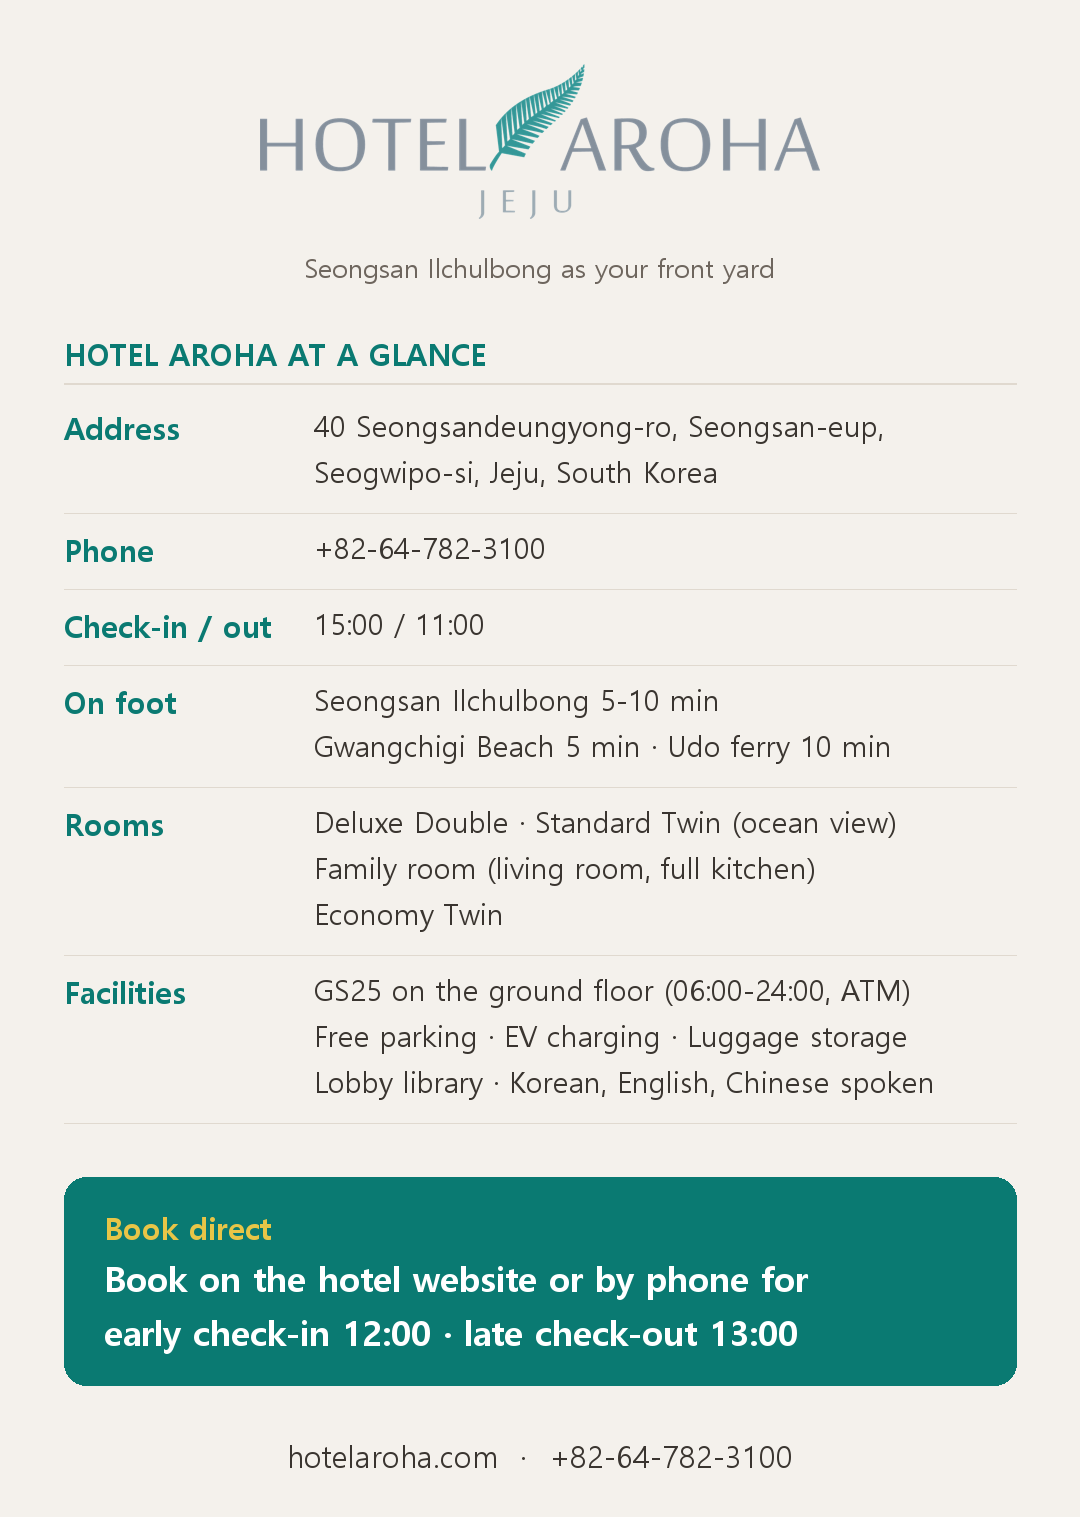
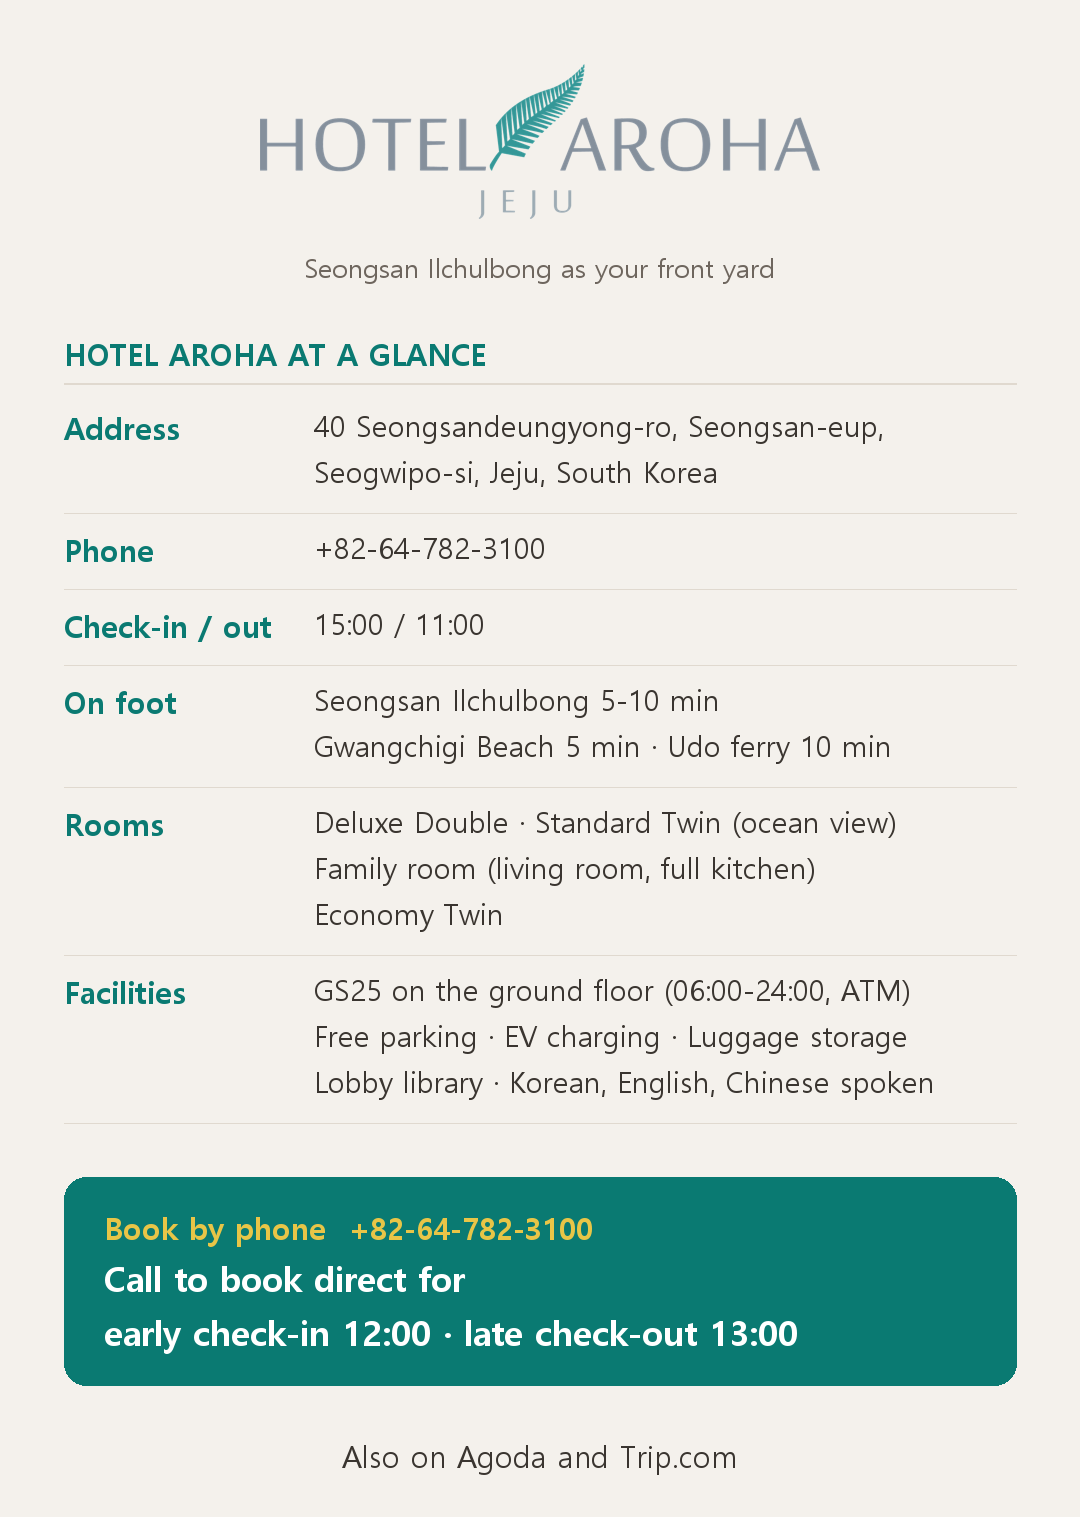
fix: 예약 버튼을 네이버 예약으로, 얼리·레이트 혜택은 전화 예약 한정
홈페이지는 https 미적용·계좌이체 방식이라 블로그 예약 동선에서 뺀다.

diff --git a/scripts/make_info_card.py b/scripts/make_info_card.py
@@ -38,9 +38,9 @@ TEXT = {
             ("객실", "디럭스더블 · 스탠다드 트윈 (오션뷰)\n패밀리룸 27평형 (침실·거실 분리, 풀키친)\n이코노미 트윈"),
             ("편의시설", "1층 GS25 (06:00~24:00, ATM)\n무료주차 · EV 충전 · 짐 보관 · 로비 도서관\n한국어·영어·중국어 응대"),
         ],
-        "perk_title": "직접 예약 혜택",
-        "perk": "호텔 홈페이지 또는 전화로 예약하면\n얼리체크인 12:00 · 레이트체크아웃 13:00",
-        "contact": "hotelaroha.com  ·  064-782-3100",
+        "perk_title": "전화 예약 혜택  064-782-3100",
+        "perk": "전화로 직접 예약하면\n얼리체크인 12:00 · 레이트체크아웃 13:00",
+        "contact": "네이버에서 '호텔아로하' 검색 · 네이버 예약",
     },
     "en": {
         "heading": "Hotel Aroha at a glance",
@@ -53,9 +53,9 @@ TEXT = {
             ("Rooms", "Deluxe Double · Standard Twin (ocean view)\nFamily room (living room, full kitchen)\nEconomy Twin"),
             ("Facilities", "GS25 on the ground floor (06:00-24:00, ATM)\nFree parking · EV charging · Luggage storage\nLobby library · Korean, English, Chinese spoken"),
         ],
-        "perk_title": "Book direct",
-        "perk": "Book on the hotel website or by phone for\nearly check-in 12:00 · late check-out 13:00",
-        "contact": "hotelaroha.com  ·  +82-64-782-3100",
+        "perk_title": "Book by phone  +82-64-782-3100",
+        "perk": "Call to book direct for\nearly check-in 12:00 · late check-out 13:00",
+        "contact": "Also on Agoda and Trip.com",
     },
 }
 

diff --git a/src/writer.py b/src/writer.py
@@ -84,7 +84,7 @@ COMMON_RULES = """
   always 가 붙은 문장은 정체성 문장이라 반드시 넣는다.
 - FAQ 5개 중 1개 이상은 숙소를 묻는 질문(예: "성산일출봉 근처 숙소는 어디가 좋나요?")으로 하고
   selling_points 문장으로 답한다.
-- 예약 이야기가 자연스러운 글이면 direct_booking(홈페이지·전화 직접 예약 시 얼리체크인·레이트체크아웃)을 한 번 언급해도 된다.
+- 예약 이야기가 자연스러운 글이면 direct_booking(전화로 직접 예약 시 얼리체크인·레이트체크아웃)을 한 번 언급해도 된다. 예약 경로는 네이버 예약 또는 전화로 안내하고, 홈페이지 예약은 안내하지 않는다.
 - 마지막 문단에서 예약을 강권하지 않는다. 정보 글답게 담백하게 닫는다.
 
 [강점을 쓰는 방법]
